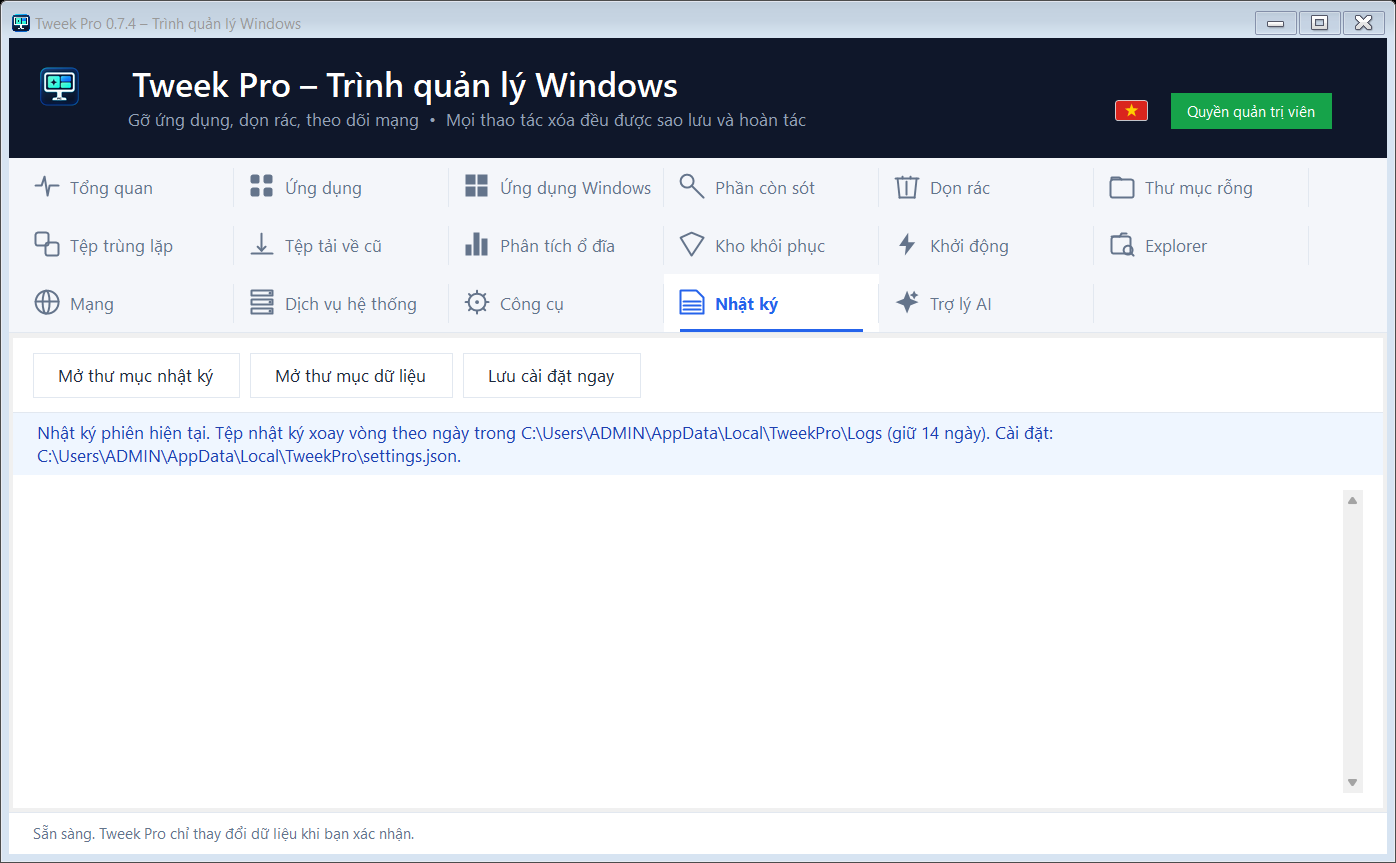
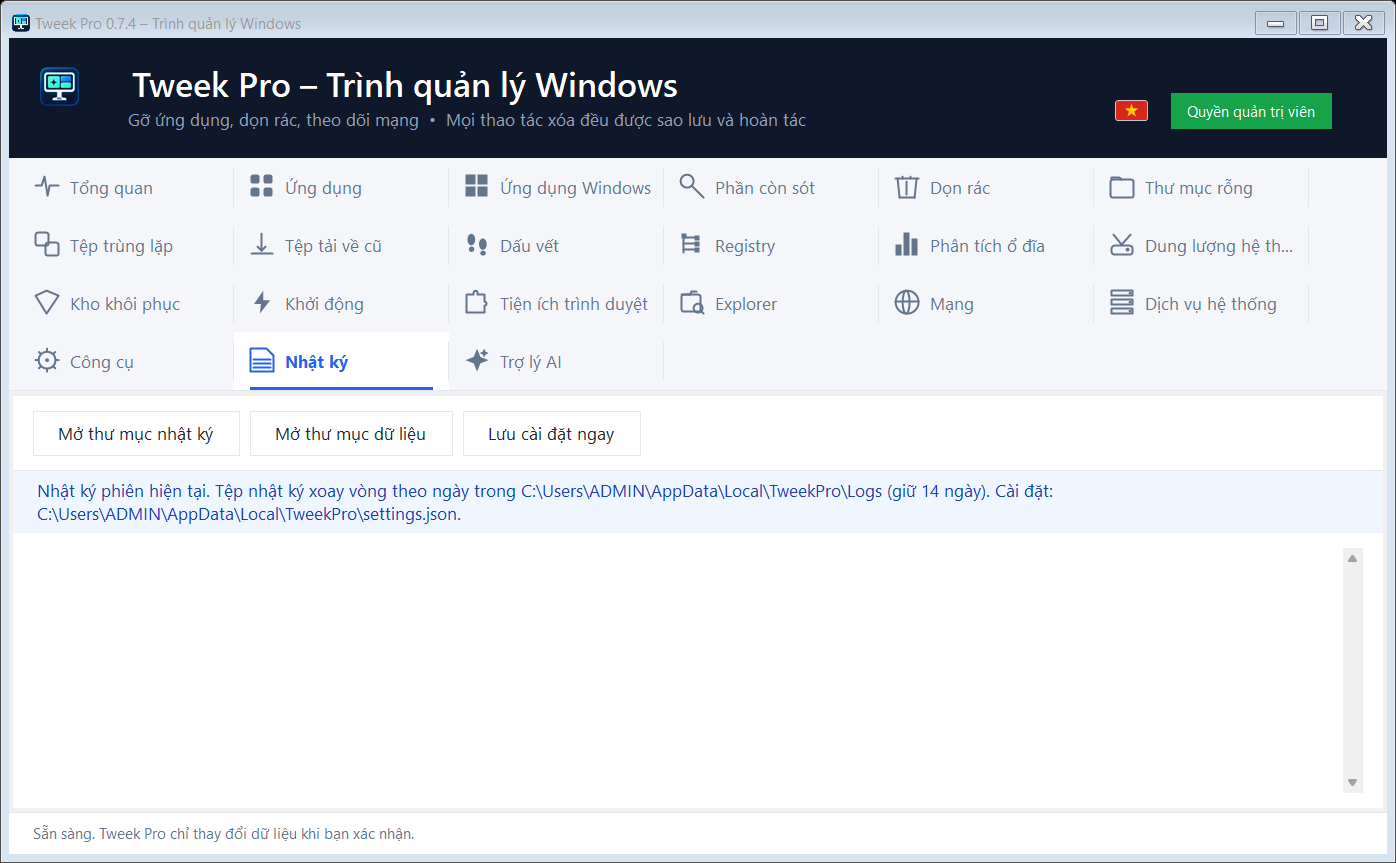
README: tab table, gallery and 0.7.5 changelog for forced uninstall, Dấu vết, Registry, Dung lượng hệ thống, Tiện ích trình duyệt and the shredder; regenerate all 22 tab screenshots; WORKSTATE checkpoint

diff --git a/README.md b/README.md
@@ -56,17 +56,21 @@ Tải bản mới nhất tại **[Releases](https://github.com/tuantien0001/Twee
 | Tab | Chức năng | An toàn |
 |---|---|---|
 | **Tổng quan** | Kiểm tra sức khỏe một nút: điểm 0–100, hạng A–E, 7 khu vực (rác, phần còn sót, thư mục rỗng, Kho, khởi động, ổ trống, phần mềm không mong muốn), dung lượng giải phóng được; bấm đúp mở tab xử lý; sao chép báo cáo; dải thông báo cập nhật | Chỉ đọc; khu vực không đo được không bị trừ điểm |
-| **Ứng dụng** | Ứng dụng desktop (HKLM/HKCU), gỡ theo hàng đợi, quét phần còn sót sau khi gỡ, cột **Cảnh báo** PUP/bloatware với lý do bằng lời thường, lọc «Chỉ hiện mục cảnh báo», CSV, chuột phải. **Dung lượng** lấy từ bộ cài; thiếu thì đọc sổ Steam (`libraryfolders.vdf`, kể cả thư viện ở ổ khác) hoặc đo thư mục cài / thư mục trình gỡ | Không dùng Win32_Product; chặn lệnh gỡ qua cmd/PowerShell; nhà phát hành cốt lõi (Microsoft, Google, Mozilla, NVIDIA, Intel, AMD…) không bao giờ bị đánh dấu; không đo Program Files, Windows hay gốc ổ đĩa |
+| **Ứng dụng** | Ứng dụng desktop (HKLM/HKCU), gỡ theo hàng đợi, quét phần còn sót sau khi gỡ, cột **Cảnh báo** PUP/bloatware với lý do bằng lời thường, lọc «Chỉ hiện mục cảnh báo», CSV, chuột phải; **Gỡ cưỡng bức…** cho chương trình không còn trong danh sách (nhập tên + thư mục/.exe → quét sâu → Phần còn sót). **Dung lượng** lấy từ bộ cài; thiếu thì đọc sổ Steam (`libraryfolders.vdf`, kể cả thư viện ở ổ khác) hoặc đo thư mục cài / thư mục trình gỡ | Không dùng Win32_Product; chặn lệnh gỡ qua cmd/PowerShell; nhà phát hành cốt lõi (Microsoft, Google, Mozilla, NVIDIA, Intel, AMD…) không bao giờ bị đánh dấu; không đo Program Files, Windows hay gốc ổ đĩa |
 | **Ứng dụng Windows** | Gói Appx/MSIX cài sẵn và Microsoft Store với logo thật; cột **Dung lượng** đo từ thư mục gói (game Xbox chuyển sang ổ khác được theo dõi qua liên kết `WindowsApps`); nhóm Gỡ được / Cần cân nhắc / Được bảo vệ; gỡ cho tài khoản hiện tại hoặc mọi tài khoản; mở trang Store, thư mục gói | Framework, gói `NonRemovable`, Start/Search/Settings/Windows Security/Edge và `Microsoft.Windows.*` bị khóa trong mã; Store/App Installer/Photos hỏi hai lần; Kho `Kind=Store` đăng ký lại từ thư mục gói |
 | **Phần còn sót** | Kết quả quét nhanh/sâu chờ duyệt; xem, chọn, xóa có sao lưu; hẹn xóa khi khởi động lại cho tệp bị giữ. Quét sâu dò thêm **dấu vết mở rộng** (`TraceHunter`): tên biến thể của ứng dụng, MUICache, AppCompat, FeatureUsage, quy tắc Firewall, SharedDLLs, StartupApproved (dọn được qua Kho) và đăng ký kiểu tệp/COM, RegisteredApplications, PATH, Event Log, Windows Installer, Tracing, CrashDumps, WER, Prefetch, Gần đây, Start Menu, thư mục tài liệu (Chỉ xem) | Từ chối dọn khi ứng dụng còn đăng ký; mục Chỉ xem không tích được; chỉ các vị trí giá trị trong danh sách cho phép mới xóa được; tên ngắn/chung chỉ vào Chỉ xem |
 | **Dọn rác** | Xem trước theo quy tắc (Temp, CrashDumps, WER, cache Explorer/GPU/trình duyệt, Rác hệ thống) với số tệp và dung lượng; vào Kho (mặc định) hoặc **Xóa thẳng** | Bỏ qua tệp < 24 giờ và tệp đang mở; cache trình duyệt khóa khi trình duyệt còn chạy; `JunkSafety` chặn Documents/Desktop/Downloads/OneDrive và mọi thư mục Windows lõi |
 | **Thư mục rỗng** | Quét một thư mục, liệt kê nhánh hoàn toàn rỗng, xóa một lần | Kiểm tra rỗng lại ngay trước khi xóa; từ chối gốc ổ đĩa, Windows, Program Files |
 | **Tệp trùng lặp** | Gom theo kích thước rồi SHA-256; chọn giữ bản cũ nhất/mới nhất; bản dư vào Kho hoặc xóa thẳng | Bản giữ lại không bao giờ bị đụng; băm lại trước khi xóa thẳng; `DupeSafety` |
 | **Tệp tải về cũ** | Downloads (và Desktop) — bộ cài, tệp nén, ảnh đĩa, tệp tải dở, tệp lớn cũ hơn N ngày (mặc định 30); vào Kho (`Kind=Stale`) hoặc xóa thẳng | `StaleSafety` chỉ cho Downloads/Desktop của tài khoản hiện tại; bỏ qua thư mục đám mây, shortcut, tệp ẩn/hệ thống, tệp đang mở |
+| **Dấu vết** | Dấu vết riêng tư của Windows (Gần đây, Jump Lists, lịch sử Run, TypedPaths, RecentDocs, hộp thoại Mở/Lưu, tìm kiếm Explorer, UserAssist, Activity History) và trình duyệt (lịch sử, cookie, biểu mẫu của Chrome/Edge/Brave/Firefox); xem trước theo quy tắc rồi dọn | Tệp vào Kho (`Kind=Tracks`), giá trị Registry lưu nguyên cây và khôi phục kiểu gộp (không ghi đè mục mới hơn); `TracksSafety` chỉ cho các khóa HKCU và thư mục trong danh sách; quy tắc trình duyệt khóa khi trình duyệt còn chạy |
+| **Registry** | Mục Registry mồ côi trỏ tới tệp/DLL không còn tồn tại: khóa Uninstall, App Paths, Applications, MUICache, SharedDLLs, Shell Extensions Approved; nhóm theo loại, mở Regedit tại khóa | Không «tối ưu» Registry, không đụng CLSID/Services/lớp tệp; `RegCleanSafety` chỉ cho đúng các khóa cha trong danh mục; mỗi lần dọn vào Kho (`Kind=Registry`), khôi phục chỉ ghi lại mục chưa tồn tại |
 | **Phân tích ổ đĩa** | Thư mục con nặng nhất, dung lượng theo phần mở rộng, tệp lớn nhất; mở vị trí, CSV | Hoàn toàn chỉ đọc; giới hạn 1.000.000 tệp / 120 giây |
+| **Dung lượng hệ thống** | Đo Windows.old, WinSxS, bộ đệm Delivery Optimization, driver cũ trùng lặp trong DriverStore, hiberfil.sys, pagefile.sys, dung lượng điểm khôi phục, Thùng rác; mỗi mục giải phóng bằng đúng công cụ Windows (cleanmgr sageset, `DISM /StartComponentCleanup`, `pnputil /delete-driver` không `/force`, `powercfg -h off`, cmdlet) | Không tự xóa tệp trong các vùng này và **không qua Kho** (quá lớn / không hoàn tác được); mọi lệnh hỏi xác nhận và cần quyền quản trị; kết quả công cụ ghi vào nhật ký |
 | **Kho khôi phục** | Khôi phục mục đã chọn; xóa vĩnh viễn mục đánh dấu; **Dọn kho theo tuổi…** có xem trước | Xóa vĩnh viễn không hoàn tác; mặc định chỉ xóa bản đã khôi phục |
 | **Khởi động** | Ba nhóm, mỗi dòng một ô tích: **Run / Startup**, **Ứng dụng Windows** (Copilot, Terminal, Teams, Defender…), **Dịch vụ tự chạy** (không gồm driver). Bỏ tích = tắt qua Kho; tích lại = bật. Run mà Windows đã tắt thì chỉ bật cờ StartupApproved | Không dừng tiến trình/dịch vụ đang chạy; dịch vụ cốt lõi không tắt được |
-| **Explorer** | Hai khung chuyển bằng nút ở đầu tab. **Tùy chỉnh File Explorer** (17 công tắc HKCU: hiện đuôi tệp, tệp ẩn, tệp hệ thống được bảo vệ, hộp chọn, thanh trạng thái, chế độ gọn, đường dẫn đầy đủ, mở vào This PC, tệp gần đây / thường dùng, quảng cáo OneDrive, giây trên đồng hồ, căn trái thanh tác vụ, Task View, Widgets) với nút Mặc định Windows / Khuyến nghị an toàn / Khởi động lại Explorer; **Duyệt tệp** hiện mọi tệp ẩn và hệ thống bất kể thiết lập Explorer với cột Đuôi, Mô tả (loại), Dung lượng, Sửa lần cuối, Thuộc tính (ẩn nghiêng, hệ thống vàng, giả dạng đỏ), lọc «Chỉ hiện mục ẩn / hệ thống»; **Xem chi tiết tệp** (bấm một tệp, chọn, kéo thả hoặc dán đường dẫn): loại thật, thuộc tính ẩn/hệ thống, thời gian, chủ sở hữu, chữ ký số, thông tin phiên bản, kiến trúc PE, Mark of the Web, SHA-256/MD5, cảnh báo đuôi kép (`hoadon.pdf.exe`), ký tự đảo chiều Unicode, PE giả tài liệu; mở hộp Thuộc tính Windows | `ExplorerSafety` chỉ cho ghi đúng các giá trị trong danh mục dưới `HKCU\…\Explorer`; giá trị cũ vào Kho (`Kind=Explorer`) và khôi phục bằng một nút; xem chi tiết tệp hoàn toàn chỉ đọc |
+| **Tiện ích trình duyệt** | Liệt kê tiện ích của Chrome, Edge, Brave, Vivaldi, Opera, Firefox trong mọi hồ sơ: trạng thái bật/tắt, nguồn cài (cửa hàng / ép cài bằng chính sách / giải nén / cài ngoài), quyền rộng (`<all_urls>`, cookies, webRequest, history…), ngày cài, phiên bản; mở thư mục tiện ích, mở trang quản lý của trình duyệt, CSV | **Chỉ đọc** — gỡ bằng trang quản lý của chính trình duyệt để hồ sơ không hỏng; đọc `Preferences`/`Secure Preferences`/`extensions.json` bằng bản sao khi trình duyệt đang khóa tệp |
+| **Explorer** | Hai khung chuyển bằng nút ở đầu tab. **Tùy chỉnh File Explorer** (17 công tắc HKCU: hiện đuôi tệp, tệp ẩn, tệp hệ thống được bảo vệ, hộp chọn, thanh trạng thái, chế độ gọn, đường dẫn đầy đủ, mở vào This PC, tệp gần đây / thường dùng, quảng cáo OneDrive, giây trên đồng hồ, căn trái thanh tác vụ, Task View, Widgets) với nút Mặc định Windows / Khuyến nghị an toàn / Khởi động lại Explorer; **Duyệt tệp** hiện mọi tệp ẩn và hệ thống bất kể thiết lập Explorer với cột Đuôi, Mô tả (loại), Dung lượng, Sửa lần cuối, Thuộc tính (ẩn nghiêng, hệ thống vàng, giả dạng đỏ), lọc «Chỉ hiện mục ẩn / hệ thống»; **Xem chi tiết tệp** (bấm một tệp, chọn, kéo thả hoặc dán đường dẫn): loại thật, thuộc tính ẩn/hệ thống, thời gian, chủ sở hữu, chữ ký số, thông tin phiên bản, kiến trúc PE, Mark of the Web, SHA-256/MD5, cảnh báo đuôi kép (`hoadon.pdf.exe`), ký tự đảo chiều Unicode, PE giả tài liệu; mở hộp Thuộc tính Windows; **Xóa không phục hồi…** (shredder) cho tệp/thư mục đã chọn: liệt kê trước, hộp xác nhận phải tích «Tôi hiểu», ghi đè 1 lần ngẫu nhiên hoặc 3 lần (0x00/0xFF/ngẫu nhiên), đổi tên ngẫu nhiên rồi xóa | `ExplorerSafety` chỉ cho ghi đúng các giá trị trong danh mục dưới `HKCU\…\Explorer`; giá trị cũ vào Kho (`Kind=Explorer`) và khôi phục bằng một nút; xem chi tiết tệp hoàn toàn chỉ đọc. Shredder **không qua Kho**; `ShredSafety` từ chối gốc ổ đĩa, Windows, Program Files, ProgramData\Microsoft, thư mục hồ sơ, Kho khôi phục, chính Tweek Pro, đường dẫn UNC và mọi liên kết symlink/junction (không bao giờ đi xuyên liên kết, chỉ gỡ liên kết) |
 | **Mạng** | Kết nối TCP/UDP theo ứng dụng, icon và hướng gửi/nhận, thanh tốc độ, dải packet realtime; băng thông ETW tự bật khi quản trị; chuột phải kết thúc tiến trình / dừng dịch vụ / **Chặn mạng** (cặp quy tắc Windows Firewall vào + ra cho đúng tệp .exe, cột Chặn mạng đỏ, Bỏ chặn, nút «Đang chặn mạng…» liệt kê và bỏ chặn hàng loạt) | Không driver, không lọc gói; `ProcessControl` khóa tiến trình và dịch vụ cốt lõi; `FirewallBlock` từ chối tiến trình cốt lõi, `System32`, chính Tweek Pro, tệp không phải .exe; mỗi lần chặn vào Kho (`Kind=Firewall`), khôi phục gỡ đúng quy tắc theo tên; phiên ETW luôn dừng khi đóng |
 | **Dịch vụ hệ thống** | Mọi dịch vụ với **giải thích bằng lời thường** (~180 dịch vụ + mẫu tên), huy hiệu an toàn, PID/RAM, nhà phát hành; lọc; Dừng / Khởi động / **Dừng và vô hiệu hóa (lưu Kho)** | Dịch vụ cốt lõi bị khóa; svchost không cho kết thúc; kiểu khởi động cũ lưu `Kind=Service` |
 | **Công cụ** | Lối mở công cụ Windows với icon hệ thống thật từ .exe/.cpl/.msc và cột dòng lệnh; Kiểm tra cập nhật | SFC/chkdsk hỏi xác nhận |
@@ -95,12 +99,20 @@ Tải bản mới nhất tại **[Releases](https://github.com/tuantien0001/Twee
 <td><b>Tệp tải về cũ</b> — bộ cài, ảnh, tệp dở trong Downloads<br><a href="docs/screenshots/stale.png"><img src="docs/screenshots/stale.png" alt="Tệp tải về cũ"></a></td>
 </tr>
 <tr>
-<td><b>Phân tích ổ đĩa</b><br><a href="docs/screenshots/analyzer.png"><img src="docs/screenshots/analyzer.png" alt="Phân tích ổ đĩa"></a></td>
-<td><b>Kho khôi phục</b> — mọi thao tác xóa đều quay lại được<br><a href="docs/screenshots/vault.png"><img src="docs/screenshots/vault.png" alt="Kho khôi phục"></a></td>
+<td><b>Dấu vết</b> — dấu vết riêng tư Windows / trình duyệt, khôi phục kiểu gộp<br><a href="docs/screenshots/tracks.png"><img src="docs/screenshots/tracks.png" alt="Dấu vết"></a></td>
+<td><b>Registry</b> — mục mồ côi trỏ tới tệp không còn, vào Kho<br><a href="docs/screenshots/registry.png"><img src="docs/screenshots/registry.png" alt="Registry"></a></td>
 </tr>
 <tr>
+<td><b>Phân tích ổ đĩa</b><br><a href="docs/screenshots/analyzer.png"><img src="docs/screenshots/analyzer.png" alt="Phân tích ổ đĩa"></a></td>
+<td><b>Dung lượng hệ thống</b> — Windows.old, WinSxS, driver cũ, hiberfil… bằng công cụ Windows<br><a href="docs/screenshots/space.png"><img src="docs/screenshots/space.png" alt="Dung lượng hệ thống"></a></td>
+</tr>
+<tr>
+<td><b>Kho khôi phục</b> — mọi thao tác xóa đều quay lại được<br><a href="docs/screenshots/vault.png"><img src="docs/screenshots/vault.png" alt="Kho khôi phục"></a></td>
 <td><b>Khởi động</b> — ô tích, ứng dụng Windows, dịch vụ tự chạy<br><a href="docs/screenshots/autorun.png"><img src="docs/screenshots/autorun.png" alt="Khởi động"></a></td>
-<td><b>Explorer — Duyệt tệp và chi tiết tệp</b> — mọi tệp ẩn / hệ thống, đuôi, mô tả, cảnh báo giả dạng<br><a href="docs/screenshots/explorer.png"><img src="docs/screenshots/explorer.png" alt="Explorer – duyệt tệp"></a></td>
+</tr>
+<tr>
+<td><b>Tiện ích trình duyệt</b> — nguồn cài, quyền rộng, ép cài bằng chính sách<br><a href="docs/screenshots/extensions.png"><img src="docs/screenshots/extensions.png" alt="Tiện ích trình duyệt"></a></td>
+<td><b>Explorer — Duyệt tệp và chi tiết tệp</b> — mọi tệp ẩn / hệ thống, đuôi, mô tả, cảnh báo giả dạng, Xóa không phục hồi<br><a href="docs/screenshots/explorer.png"><img src="docs/screenshots/explorer.png" alt="Explorer – duyệt tệp"></a></td>
 </tr>
 <tr>
 <td><b>Explorer — Tùy chỉnh File Explorer</b> — 17 công tắc HKCU, khôi phục được<br><a href="docs/screenshots/tweaks.png"><img src="docs/screenshots/tweaks.png" alt="Explorer – tùy chỉnh"></a></td>
@@ -215,12 +227,18 @@ Tài liệu kèm theo: `AGENTS.md` (quy ước cho agent), `HANDOFF.md` (kiến 
 
 ## Giới hạn hiện tại
 
-Chưa có theo dõi cài đặt (install monitor), forced uninstall, quản lý tiện ích trình duyệt, chặn mạng, hay tự tải và cài bản mới im lặng (Kiểm tra cập nhật chỉ báo và mở trang tải). Không xác định được mọi dấu vết của mọi ứng dụng. Băng thông theo tiến trình chỉ tính từ khi bật ETW. Bản phân phối là một thư mục (exe + DLL). Chuỗi giao diện nằm trong mã (chưa `.resx`); một số thông báo nhật ký còn tiếng Việt khi chọn tiếng Anh.
+Chưa có theo dõi cài đặt (install monitor), gỡ/tắt tiện ích trình duyệt trực tiếp (tab Tiện ích trình duyệt chỉ đọc), hay tự tải và cài bản mới im lặng (Kiểm tra cập nhật chỉ báo và mở trang tải). Không xác định được mọi dấu vết của mọi ứng dụng. Băng thông theo tiến trình chỉ tính từ khi bật ETW. Bản phân phối là một thư mục (exe + DLL). Chuỗi giao diện nằm trong mã (chưa `.resx`); một số thông báo nhật ký còn tiếng Việt khi chọn tiếng Anh.
 
 ## Lịch sử phiên bản
 
 ### 0.7.5 (chưa phát hành)
 
+- **Gỡ cưỡng bức** (`Remnants/ForcedUninstall`): nút **Gỡ cưỡng bức…** ở tab Ứng dụng cho chương trình không còn trong danh sách (bộ cài hỏng, portable, gỡ dở) — nhập tên, tùy chọn nhà phát hành / thư mục cài / tệp .exe; Tweek Pro dựng một mục ảo và chạy quét sâu như bình thường, kết quả vào **Phần còn sót** để duyệt và xóa qua Kho. Tên ngắn/chung bắt buộc kèm thư mục hoặc .exe; thư mục Windows, Program Files gốc, hồ sơ người dùng, gốc ổ đĩa bị từ chối; thư mục ngoài vùng dọn được chỉ vào Chỉ xem.
+- **Tab Dấu vết** (`Tracks/`): dọn dấu vết riêng tư của Windows (Gần đây, Jump Lists, RunMRU, TypedPaths, RecentDocs, ComDlg32, WordWheelQuery, UserAssist, ActivitiesCache.db) và trình duyệt (lịch sử, cookie, dữ liệu biểu mẫu của Chrome/Edge/Brave/Firefox). Xem trước theo quy tắc với số mục và dung lượng; tệp vào Kho (`Kind=Tracks`), khóa Registry lưu nguyên cây và khôi phục kiểu gộp — mục đã sinh mới sau khi dọn không bị ghi đè. `TracksSafety` chỉ cho các khóa HKCU và thư mục trong danh sách; quy tắc trình duyệt khóa khi trình duyệt còn chạy.
+- **Tab Registry** (`RegClean/`): tìm mục Registry mồ côi — khóa Uninstall, App Paths, Applications, MUICache, SharedDLLs, Shell Extensions Approved — mà tệp/DLL đích không còn tồn tại. Bảo thủ có chủ đích: không «tối ưu», không đụng CLSID, Services, lớp tệp; chỉ dọn khi đường dẫn đích xác minh được là vắng. Mỗi lần dọn vào Kho (`Kind=Registry`), khôi phục ghi lại đúng mục chưa tồn tại. Mở Regedit tại khóa đã chọn.
+- **Tab Dung lượng hệ thống** (`SysSpace/`): đo Windows.old, WinSxS, bộ đệm Delivery Optimization, driver cũ trùng lặp trong DriverStore (đọc bằng `Get-WindowsDriver`), hiberfil.sys, pagefile.sys, dung lượng điểm khôi phục, Thùng rác. Mỗi mục giải phóng bằng đúng công cụ Windows (`cleanmgr` sageset cho Windows.old, `DISM /StartComponentCleanup`, `pnputil /delete-driver` không `/force`, `powercfg -h off`, `vssadmin`, cmdlet Thùng rác) sau khi hỏi xác nhận; không tự xóa tệp và không qua Kho vì các vùng này quá lớn hoặc không hoàn tác được; kết quả công cụ vào nhật ký.
+- **Tab Tiện ích trình duyệt** (`Extensions/`, chỉ đọc): liệt kê tiện ích của Chrome, Edge, Brave, Vivaldi, Opera và Firefox trong mọi hồ sơ với trạng thái bật/tắt, nguồn cài (cửa hàng, **ép cài bằng chính sách** qua `ExtensionInstallForcelist`, giải nén, cài ngoài), quyền rộng (`<all_urls>`, cookies, webRequest, history, nativeMessaging…), ngày cài, phiên bản; tô đỏ mục cần xem; mở thư mục tiện ích, mở trang quản lý của trình duyệt (`chrome://extensions`, `about:addons`), CSV. Đọc bằng bản sao khi trình duyệt đang khóa tệp; gỡ tiện ích vẫn qua chính trình duyệt để hồ sơ không hỏng.
+- **Xóa không phục hồi (shredder)** trong khung Duyệt tệp của Explorer (`Shredder/`): liệt kê trước mọi tệp sẽ bị xóa, hộp xác nhận bắt tích «Tôi hiểu», chọn 1 lần ghi ngẫu nhiên (khuyến nghị) hoặc 3 lần (0x00/0xFF/ngẫu nhiên), ghi đè qua `WriteThrough`, cắt về 0 byte, đổi tên ngẫu nhiên rồi xóa; thư mục xóa từ dưới lên cũng dưới tên ngẫu nhiên. **Không qua Kho.** `ShredSafety` từ chối gốc ổ đĩa, tệp hệ thống ở gốc ổ, Windows, Program Files, ProgramData\Microsoft, thư mục hồ sơ người dùng, Kho khôi phục, thư mục Tweek Pro, đường dẫn UNC; symlink/junction không bao giờ bị đi xuyên (chỉ gỡ liên kết); tối đa 20.000 tệp một lần; ghi chú về SSD/USB/ổ mạng ngay trong hộp xác nhận.
 - **Dung lượng đầy đủ như Revo** (`Sizing/`): app không khai báo `EstimatedSize` được đo từ thư mục cài, hoặc từ thư mục chứa trình gỡ / DisplayIcon khi không khai báo thư mục; game Steam đọc `libraryfolders.vdf` + `appmanifest_*.acf` nên game đã chuyển sang ổ khác (D:\SteamLibrary) hiện đúng kích cỡ và thư mục thật; tab **Ứng dụng Windows** có cột **Dung lượng** đo từ thư mục gói, đi theo liên kết `WindowsApps → D:\XboxGames` của game Xbox. Không đo Program Files, ProgramData, Windows, thư mục người dùng hay gốc ổ đĩa; mỗi thư mục tối đa 6 giây, dấu «+» nghĩa là đo chưa hết.
 - **Sửa lỗi**: mở tab **Kho khôi phục** (hoặc bất kỳ danh sách có ô tích đã được nạp trước khi tab hiện ra) không còn báo «Object reference not set to an instance of an object» và kẹt ở tab cũ — Windows phát sự kiện ItemChecked cho từng dòng lúc tạo danh sách, nay được bỏ qua ở `SmoothListView`. Lỗi chưa xử lý ghi cả stack trace vào nhật ký.
 

diff --git a/WORKSTATE.md b/WORKSTATE.md
@@ -1,10 +1,23 @@
 # Tweek Pro — current work checkpoint
 
-Updated: 2026-09-22 09:22 (Asia/Bangkok).
-Status: DONE (Cursor). Owner: clicking Kho khôi phục showed "Object reference not set to an instance of an object" and the page stayed on Phân tích ổ đĩa.
+Updated: 2026-09-22 10:55 (Asia/Bangkok).
+Status: DONE (Cursor). Owner: "làm mục 1, 5 6 7 8 9" of the roadmap (forced uninstall, tracks, registry, system space, browser extensions, shredder). Not released; version string is still 0.7.4, README has `### 0.7.5 (chưa phát hành)`.
 Last editor: Cursor.
 
-## Current task (09:22)
+## Current task (10:55)
+
+M. DONE Roadmap 1/5/6/7/8/9, one commit per feature on `main`:
+- 1 `Remnants/ForcedUninstall*.cs` + `RemnantsLang`: "Gỡ cưỡng bức…" button on Ứng dụng builds a synthetic `AppEntry` (name, optional publisher/folder/exe) and feeds `ReviewLeftovers`/deep scan; `ValidatePickedFolder` refuses Windows/Program Files roots/profile/drive roots; folders outside cleanable roots become review-only. Commit `5ad8000`.
+- 5 `Tracks/` tab Dấu vết: file rules (Recent, Jump Lists, ActivitiesCache) + HKCU registry rules (RunMRU, TypedPaths, RecentDocs, ComDlg32, WordWheelQuery, UserAssist) + browser history/cookies/form data; `TracksSafety` allow-list; vault `Kind=Tracks` (files moved; registry saved as `RegNode` tree, key emptied but parent kept, restore merges without overwriting newer values). Browser rules lock while the browser runs. Commit `1630746`.
+- 6 `RegClean/` tab Registry: orphan Uninstall keys, App Paths, Applications, MUICache, SharedDLLs, Shell Extensions Approved whose target file is verifiably absent; `RegCleanSafety` exact parent allow-list; vault `Kind=Registry`, restore only re-creates missing entries; "Mở trong Regedit". Commit `1fcaa4b`.
+- 7 `SysSpace/` tab Dung lượng hệ thống: measures Windows.old, WinSxS, Delivery Optimization, duplicate DriverStore packages (`Get-WindowsDriver`), hiberfil, pagefile, shadow storage, Recycle Bin; each reclaimed only via its Windows tool (cleanmgr sageset, DISM StartComponentCleanup, pnputil without /force, powercfg, vssadmin, cmdlets); no vault, confirm + elevation, tool output logged. `SystemSpace.Runner` injectable for tests. Commit `3200db8`.
+- 8 `Extensions/` tab Tiện ích trình duyệt (read-only): Chrome/Edge/Brave/Vivaldi/Opera/Firefox across profiles; Preferences/Secure Preferences/extensions.json read via copy; provenance (store / policy forcelist / unpacked / sideloaded), broad permissions, install time; CSV; open folder / manager page. Commit `cf04290`.
+- 9 `Shredder/`: "Xóa không phục hồi…" (Danger button) in the Explorer file pane; `FileShredder.Plan` (no reparse traversal, 20k cap) → `ShredConfirmForm` (ack checkbox unlocks; 1 or 3 passes; medium note) → `Shred` (WriteThrough overwrite, truncate, random rename, delete; links unlinked, folders removed bottom-up). `ShredSafety.Validate` refuses drive roots, system files at drive root, Windows, Program Files, ProgramData\Microsoft, profile/Users, vault, Tweek Pro folder, UNC, reparse points. Commit `c775448` (also removed duplicate "Chưa đo" key that broke `Core.L` at startup).
+- Wiring: `Core.L` merges Remnants/Tracks/RegClean/SystemSpace/Extensions/Shredder tables; `Engine.Restore` handles Tracks/Registry kinds; `Branding` glyphs footprints/registry/drive/puzzle; `LangTests` tab list; `App.PreviewModes` + `--preview all` (22 PNGs); `Tests07` runs all six test suites.
+- Verification: Release build 0 W / 0 E; elevated `--self-test` PASS 10:48 (`bin/Release/net48/test-results.txt`); `docs/screenshots/` regenerated 10:52 and tracks/registry/space/extensions/explorer PNGs reviewed. README tab table, gallery and 0.7.5 changelog updated.
+- NEXT: push README/screenshots commit; replace the installed exe `C:\Program Files\Tweek Pro\TweekPro-0.7.4.exe` with this build and relaunch; owner decides when to cut 0.7.5 (`release.ps1`).
+
+## Previous task (09:22)
 
 L. DONE Vault tab crash. Cause: the vault list is filled at startup (`LoadBackups` in `Reload`) before its tab is ever shown; when the tab is first selected the ListView handle is created, Windows sends LVN_ITEMCHANGED for every row (state image 0 → 1), WinForms raises `ItemChecked`, `UpdateBackupSummary` enumerates `backups.Items` and `Items[i]` returns null for rows not yet inserted natively → NRE inside `TabControl.SelectedIndex`, so the new page never became visible. Only bites with ≥2 backups (the owner now has autorun backups). Reproduced in a stand-alone WinForms harness (5 events, 10 null items) and confirmed the fix there (0 events during handle creation, user check still raises 1).
 - Fix: `Presentation.SmoothListView` overrides `OnHandleCreated`/`OnItemCheck`/`OnItemChecked` and drops both events while the handle is being created. Every list in the app is a `SmoothListView`, so remnants/junk/dupes/store/stale lists filled from another tab (AI tools) are covered too.
